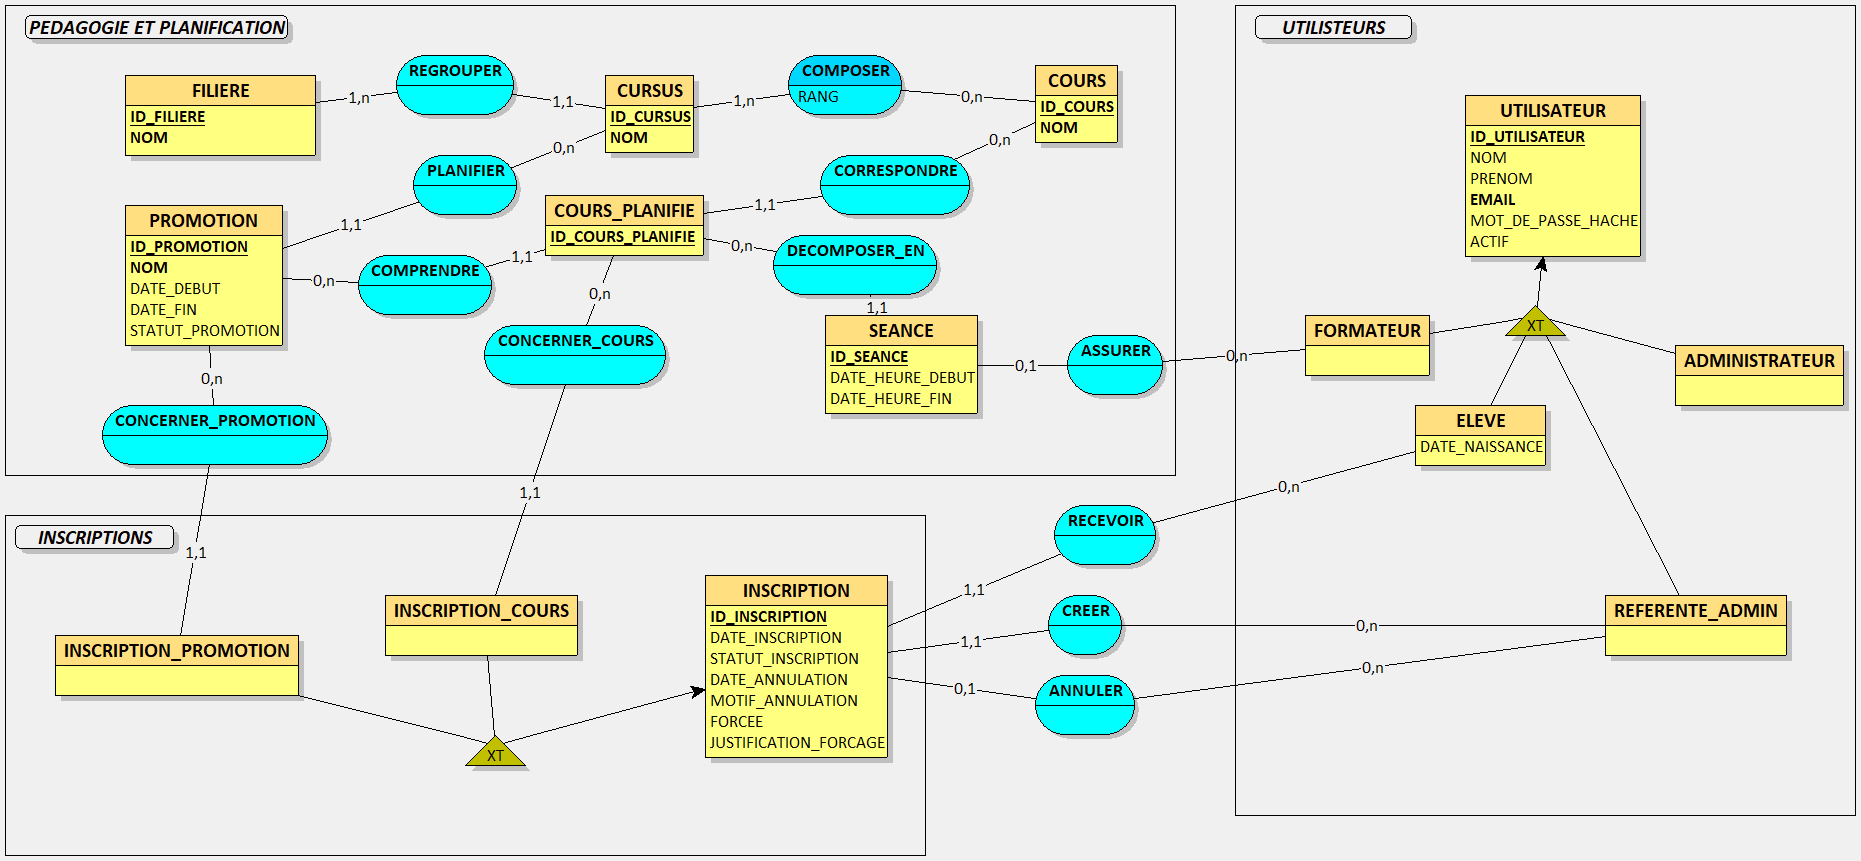
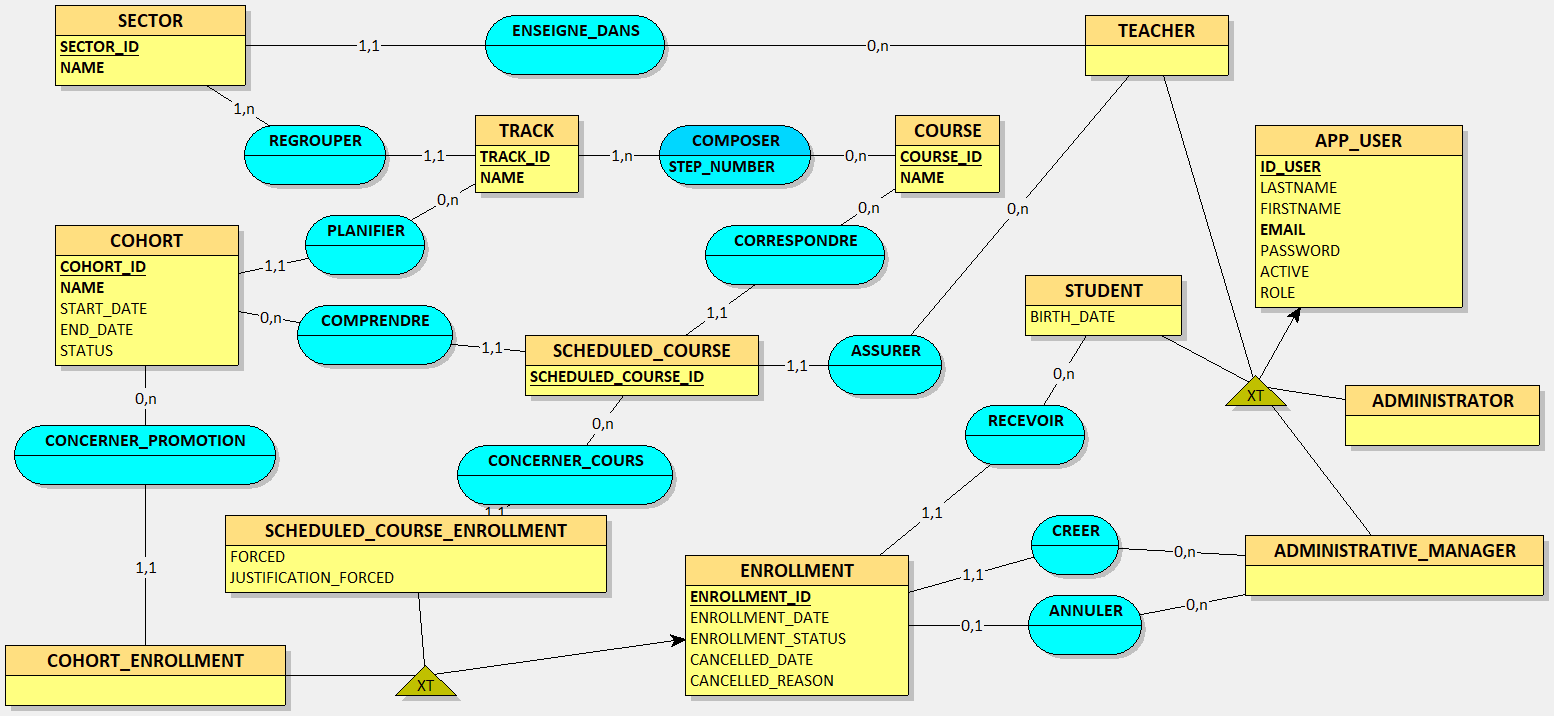
derniere modifs

diff --git a/backend/src/main/java/com/eni/formagest/controllers/training/TrackController.java b/backend/src/main/java/com/eni/formagest/controllers/training/TrackController.java
@@ -80,6 +80,7 @@ public class TrackController {
     }
 
     @PutMapping("/{id}/courses/order")
+    @PreAuthorize("hasRole('ADMINISTRATIVE_MANAGER')")
     public List<TrackCourseDto> reorderCourses(
             @PathVariable Long id,
             @Valid @RequestBody List<TrackCourseOrderDto> order) {

diff --git a/backend/src/main/java/com/eni/formagest/controllers/training/CourseController.java b/backend/src/main/java/com/eni/formagest/controllers/training/CourseController.java
@@ -61,6 +61,7 @@ public class CourseController {
     }
 
     @PutMapping("/{id}/tracks")
+    @PreAuthorize("hasRole('ADMINISTRATIVE_MANAGER')")
     public CourseDto updateTracks(
             @PathVariable Long id,
             @RequestBody List<Long> trackIds) {
